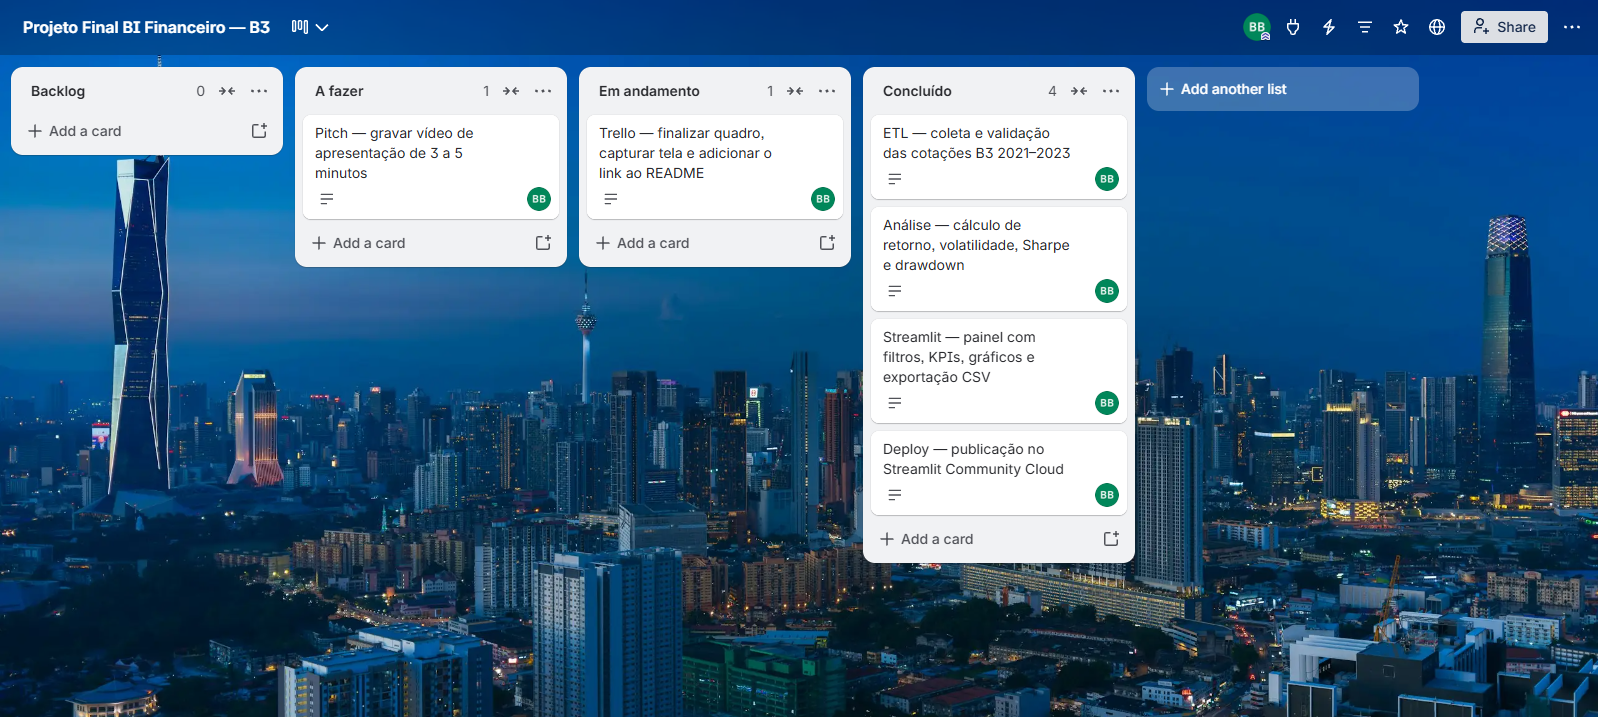
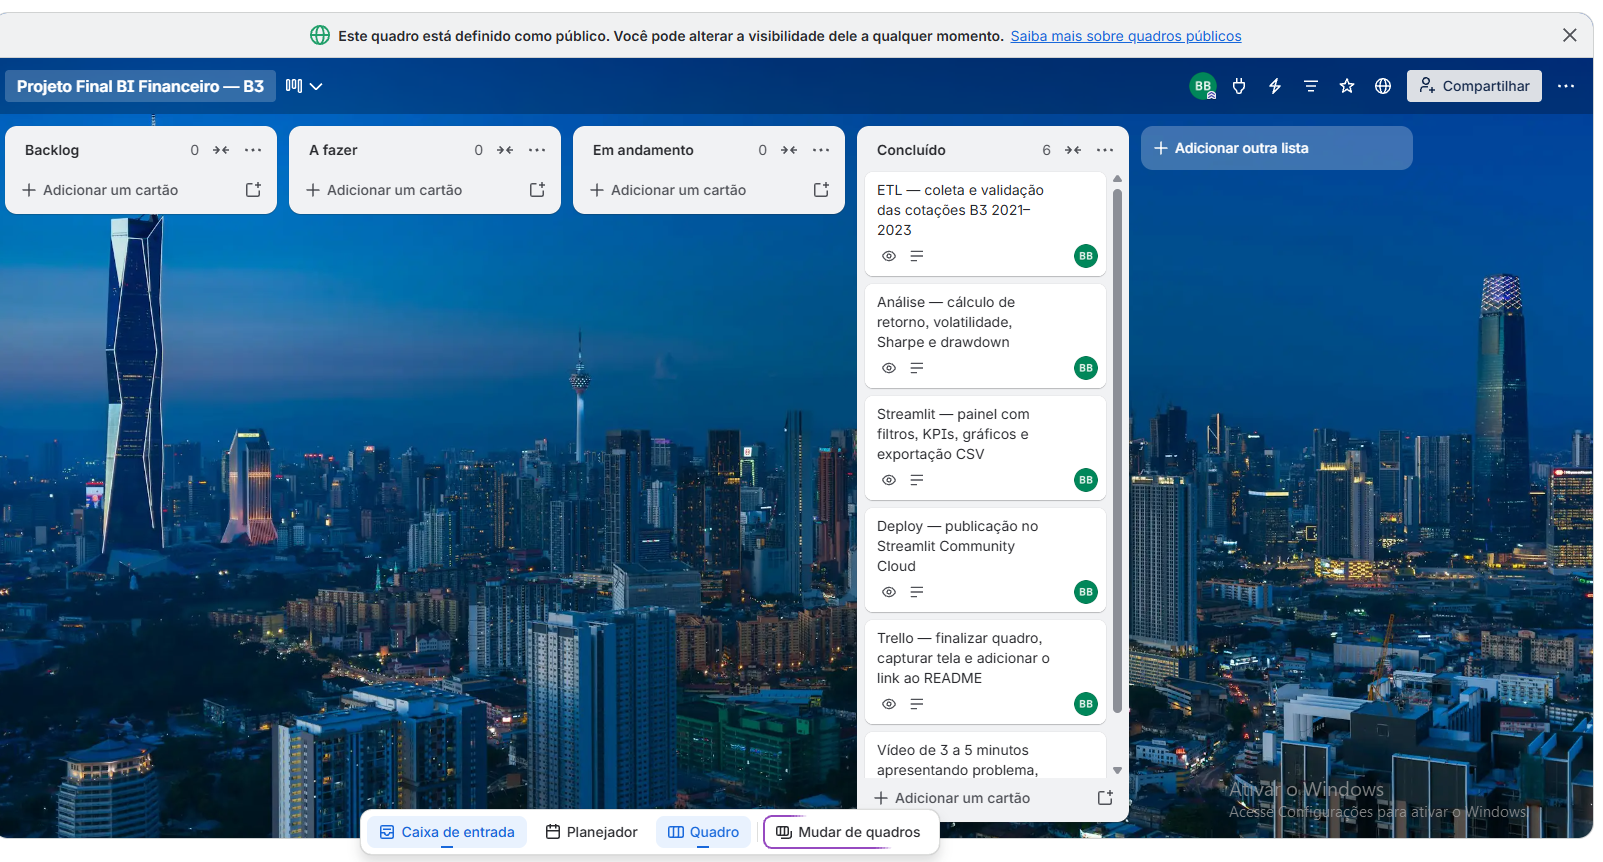
docs: atualiza README e captura do Trello

diff --git a/README.md b/README.md
@@ -257,3 +257,270 @@ projeto_final/
 - Plotly Express: https://plotly.com/python/plotly-express/
 
 - Pandas: https://pandas.pydata.org/docs/
+# Carteira em Foco — Análise de ações da B3
+
+## 1. Resumo executivo
+
+**Carteira em Foco** é um painel de Business Intelligence para acompanhar o desempenho, o risco e a evolução de 12 ações negociadas na B3 entre 2021 e 2023. O projeto transforma séries históricas de preços em indicadores e visualizações para apoiar uma leitura comparativa da carteira.
+
+A aplicação permite filtrar ativos, grupos setoriais e datas; comparar retornos normalizados e anuais; observar risco e drawdown; analisar correlações entre retornos diários; e exportar a base filtrada.
+
+> Projeto acadêmico individual da Linha 2 — Performance de Mercado de Ações e Séries Temporais.
+
+## 2. Contexto de negócio e pergunta orientadora
+
+Um investidor ou analista precisa comparar ativos com preços, riscos e trajetórias diferentes. Este painel investiga:
+
+**Como os 12 ativos selecionados se comportaram em retorno e risco entre 2021 e 2023, e quais diferenças aparecem entre os grupos setoriais definidos para esta análise?**
+
+- **Quais ativos tiveram maior e menor retorno acumulado?**  
+
+  PETR4 liderou o período, com retorno aproximado de **228,69%**. BBDC4 teve o menor resultado, cerca de **−6,93%**.
+
+- **Como variou o desempenho de cada ativo por ano?**  
+
+  Os retornos e as posições relativas variaram de um ano para outro. No acumulado do período, PETR4, PRIO3 e EMBR3 se destacaram, embora suas trajetórias anuais tenham sido diferentes.
+
+- **Quais grupos setoriais tiveram maior retorno médio anual?**  
+
+  A liderança mudou: Indústria apresentou a maior média anual em 2021 (**92,97%**); Energia liderou em 2022 (**41,79%**) e 2023 (**55,29%**). Na média dos três anos, Energia ficou com **38,08%**, seguida de Indústria, com **36,68%**. O retorno de cada grupo é a média simples dos ativos classificados nele.
+
+- **Quais ativos apresentaram maior associação linear em seus retornos diários?**  
+
+  BBDC4 e ITUB4 tiveram a maior correlação de Pearson nos retornos diários (**r = 0,77**) entre janeiro de 2021 e dezembro de 2023. Isso indica movimentos historicamente semelhantes, mas não comprova causalidade.
+
+- **Como se comportaram a volatilidade, o drawdown e as médias móveis?**  
+
+  A volatilidade anualizada média foi de **33,61%**. EGIE3 teve o drawdown máximo menos severo (**−17,65%**) e EMBR3, o mais acentuado (**−58,27%**). As médias móveis de 21 e 50 pregões ajudam a observar mudanças de tendência, mas não são previsões de preço.
+
+## 3. Fonte de dados, período e uso
+
+- **Fonte consultada:** histórico público de mercado disponibilizado pelo Yahoo Finance, obtido em Python pela biblioteca `yfinance`, com símbolos de ações brasileiras.
+
+- **Janela definida:** 01/01/2021 a 31/12/2023.
+
+- **Pregões encontrados na base:** 04/01/2021 a 28/12/2023, correspondentes aos pregões disponíveis no intervalo.
+
+- **Universo:** ABEV3, BBDC4, EGIE3, EMBR3, GGBR4, ITUB4, KLBN11, PETR4, PRIO3, RENT3, VALE3 e WEGE3.
+
+- **Volume da base:** 745 observações por ativo, totalizando 8.940 linhas na série consolidada.
+
+- **Arquivos principais:** `data/precos_acoes_2021_2023.csv` e `data/indicadores_diarios_2021_2023.csv`.
+
+A fonte utilizada é uma API pública de cotações, conforme permitido para a Linha 2 no enunciado. Ela não é apresentada como uma extração direta dos arquivos oficiais da B3. Consulte os termos aplicáveis da fonte antes de reutilizar ou redistribuir os dados.
+
+**Observação sobre o ticker EMBR3:** a identificação do ativo pode diferir na fonte de cotações em razão de mudanças de símbolo. No ETL, o símbolo `EMBJ3.SA` é padronizado como `EMBR3` para manter a identificação adotada no projeto.
+
+## 4. Pipeline de engenharia de dados
+
+O script `etl.py` realiza a extração e preparação da série histórica. O fluxo geral é:
+
+1. Consulta os dados históricos dos ativos por meio de `yfinance`.
+
+2. Padroniza os campos de preço, volume, data e ticker.
+
+3. Converte datas para tipo datetime e campos financeiros para tipos numéricos.
+
+4. Remove registros inválidos e duplicados por data e ativo.
+
+5. Ordena a base por ativo e data e verifica cobertura, nulos e duplicatas.
+
+6. Calcula indicadores derivados e grava os arquivos CSV na pasta `data/` usando caminhos relativos ao projeto.
+
+A aplicação carrega a tabela por conexão PostgreSQL, se configurada, e utiliza o CSV versionado como contingência. O carregamento é armazenado em cache por uma hora com `st.cache_data`.
+
+## 5. Dicionário de dados
+
+| Campo | Tipo | Significado e regra aplicada |
+|---|---|---|
+| `data` | datetime | Data do pregão. Convertida para data/hora durante a leitura. |
+| `abertura` | float | Preço de abertura do ativo no pregão, em reais. |
+| `maxima` | float | Maior preço registrado no pregão, em reais. |
+| `minima` | float | Menor preço registrado no pregão, em reais. |
+| `fechamento` | float | Preço de fechamento não ajustado, em reais. |
+| `fechamento_ajustado` | float | Fechamento ajustado conforme a série da fonte; usado nas análises de retorno. |
+| `volume_acoes` | int/float | Quantidade de ações negociadas no pregão, conforme a fonte. |
+| `ticker` | string | Código padronizado do ativo, por exemplo `PETR4`. |
+| `volume_financeiro_estimado` | float | Estimativa calculada por fechamento × volume de ações. Não equivale ao financeiro oficial do pregão. |
+| `retorno_diario` | float | Variação percentual diária calculada sobre o fechamento ajustado: preço ajustado atual ÷ preço ajustado anterior − 1. |
+| `base_100` | float | Série normalizada a partir do primeiro preço de referência; no painel, a visualização é rebaseada ao primeiro pregão do período filtrado. |
+| `sma_21` | float | Média móvel simples de 21 pregões do preço ajustado. |
+| `sma_50` | float | Média móvel simples de 50 pregões do preço ajustado. |
+| `pico_historico` | float | Maior fechamento ajustado acumulado até a data. |
+| `drawdown` | float | Variação em relação ao pico histórico: fechamento ajustado ÷ pico histórico − 1. Valores negativos representam quedas do pico. |
+
+O arquivo `data/resumo_ativos_2021_2023.csv` agrega os resultados por ativo e contém retorno acumulado, volatilidade anualizada, Sharpe com taxa livre de risco igual a zero, drawdown máximo, assimetria dos retornos diários e excesso de curtose.
+
+### Indicadores derivados na aplicação
+
+- **Retorno acumulado no período:** preço ajustado final ÷ preço ajustado inicial − 1.
+
+- **Volatilidade anualizada:** desvio-padrão dos retornos diários × √252.
+
+- **Sharpe empírico:** retorno médio diário ÷ desvio-padrão diário × √252, assumindo taxa livre de risco igual a zero.
+
+- **Retorno anual por ativo:** variação entre o primeiro e o último pregão disponível daquele ano no intervalo filtrado.
+
+- **Retorno setorial:** média simples dos retornos anuais dos ativos disponíveis em cada grupo do projeto.
+
+- **Correlação:** coeficiente de Pearson entre retornos diários, não entre níveis de preço.
+- **Assimetria:** coeficiente de skewness calculado sobre os retornos diários; valores negativos indicam maior extensão da cauda à esquerda e valores positivos, da cauda à direita.
+- **Excesso de curtose:** curtose calculada sobre os retornos diários menos 3; valores positivos indicam caudas mais pesadas que as de uma distribuição normal de referência.
+
+## 6. Grupos setoriais adotados
+
+Para facilitar a comparação no painel, os ativos foram organizados em cinco **grupos analíticos do projeto**:
+
+| Grupo | Ativos |
+|---|---|
+| Consumo e serviços | ABEV3, RENT3 |
+| Indústria | EMBR3, WEGE3 |
+| Commodities | GGBR4, KLBN11, VALE3 |
+| Energia | PETR4, PRIO3, EGIE3 |
+| Financeiro | BBDC4, ITUB4 |
+
+Esses grupos são uma simplificação para a visualização e não devem ser interpretados como uma classificação oficial da B3. Os grupos também têm quantidades diferentes de ativos; por isso, o retorno do grupo é uma média simples e não uma carteira setorial ponderada por valor de mercado.
+
+## 7. Tecnologias
+
+| Tecnologia | Uso no projeto |
+|---|---|
+| Python | Linguagem do pipeline e da aplicação. |
+| Pandas | Tratamento, organização e cálculo sobre séries temporais. |
+| yfinance | Obtenção do histórico de cotações para os símbolos selecionados. |
+| Streamlit | Aplicação interativa, filtros, KPIs, abas e exportação. |
+| Plotly Express | Gráficos interativos. |
+| PostgreSQL / SQLAlchemy | Conexão opcional à base na nuvem; a aplicação prevê fallback para CSV. |
+| Git e GitHub | Versionamento e organização do desenvolvimento por branches e pull requests. |
+
+## 8. Resultados observados
+
+Na base consolidada de 2021–2023, a média simples dos retornos acumulados dos 12 ativos apresentou os seguintes resultados:
+
+- **Retorno médio acumulado dos ativos:** 58,41%.
+
+- **Maior retorno acumulado:** PETR4, aproximadamente 228,69%.
+
+- **Menor retorno acumulado:** BBDC4, aproximadamente −6,93%.
+
+- **Volatilidade anualizada média:** 33,61%.
+
+- **Maior Sharpe empírico:** PETR4, aproximadamente 1,22, com taxa livre de risco igual a zero.
+
+- **Menor drawdown máximo em magnitude entre os ativos:** EGIE3, aproximadamente −17,65%; EMBR3 teve o mais acentuado, aproximadamente −58,27%.
+
+- **Estatísticas da distribuição dos retornos:** ITUB4 apresentou o maior excesso de curtose (13,49) e a assimetria mais negativa (−1,115) entre os ativos da amostra.
+
+Os resultados são descritivos e dependem do intervalo, da fonte e das regras de cálculo adotadas. O excesso de curtose e a assimetria descrevem a distribuição observada nesta amostra; não são previsões de perdas futuras. O Sharpe usa taxa livre de risco igual a zero. Não se infere causalidade a partir de correlações ou de desempenho passado.
+
+> Os resultados apresentados correspondem à base histórica versionada neste repositório e ao período de 2021 a 2023.
+
+## 9. Limitações da análise
+
+- A janela cobre três anos e não representa todos os ciclos de mercado.
+
+- A fonte é uma base pública consolidada de cotações; diferenças de cobertura, ajustes e disponibilidade podem ocorrer.
+
+- O volume financeiro foi estimado por fechamento × quantidade de ações e não representa o valor oficial negociado.
+
+- O Sharpe considera taxa livre de risco igual a zero, simplificação que pode alterar a comparação de risco-retorno.
+
+- A média simples dá o mesmo peso a cada ativo e não reproduz necessariamente a composição de uma carteira real.
+
+- Os grupos setoriais são simplificações do projeto e contêm quantidades diferentes de ativos.
+
+- Correlação linear mede associação histórica entre retornos e não comprova causalidade nem garante comportamento futuro.
+
+- O retorno anual apresentado usa primeiro e último pregão disponível dentro do ano e do período selecionado; filtros de datas podem produzir anos parciais.
+
+## 10. Aplicação prática
+
+O painel pode apoiar uma conversa inicial entre analista, gestor e investidor sobre desempenho relativo, risco histórico, perdas máximas e semelhança entre os movimentos dos ativos. Ele serve como instrumento exploratório e educacional, não como recomendação de investimento individual.
+
+## 11. Demonstração do Data App
+
+- **Aplicação em produção:** [Carteira em Foco](https://carteira-em-foco-b3.streamlit.app/)
+
+![Captura do painel Carteira em Foco](docs/captura-app-readme.png)
+
+### Navegação
+
+- **Visão geral:** Base 100 e relação risco-retorno.
+
+- **Retorno anual e setores:** retornos por ativo e média por grupo setorial.
+
+- **Risco e correlação:** correlação de Pearson, distribuição dos retornos e drawdown.
+
+- **Tendência:** preço ajustado e médias móveis simples de 21 e 50 pregões.
+
+- **Dados:** tabela filtrada e exportação CSV.
+
+Filtros por grupo setorial, ativos e período ficam na barra lateral. O botão **Restaurar filtros** retorna à carteira completa.
+
+## 12. Como executar localmente
+
+Pré-requisitos: Python instalado e Git.
+
+```powershell
+git clone https://github.com/brunobriani-hub/projeto_final.git
+cd projeto_final
+python -m venv .venv
+.\.venv\Scripts\Activate.ps1
+python -m pip install -r requirements.txt
+python -m streamlit run app.py
+```
+
+A aplicação espera encontrar `data/indicadores_diarios_2021_2023.csv` relativamente à raiz do projeto. Sem credenciais de PostgreSQL configuradas, utiliza o CSV de contingência.
+
+Para habilitar PostgreSQL, configure as credenciais localmente em `.streamlit/secrets.toml` e no campo **Secrets** do Streamlit Community Cloud. Não publique credenciais no GitHub. O arquivo local de segredos deve permanecer no `.gitignore`.
+
+## 13. Estrutura do repositório
+
+```text
+projeto_final/
+├── .streamlit/
+│   ├── config.toml
+│   └── secrets.toml          # local, não versionar
+├── data/
+│   ├── indicadores_diarios_2021_2023.csv
+│   ├── precos_acoes_2021_2023.csv
+│   └── resumo_ativos_2021_2023.csv
+├── docs/
+│   ├── trello_quadro.png
+│   └── captura-app-readme.png
+├── app.py
+├── etl.py
+├── requirements.txt
+├── .gitignore
+└── README.md
+```
+
+## 14. Gestão ágil e links do projeto
+
+- **Quadro Kanban público no Trello:** [Projeto Final BI Financeiro — B3](https://trello.com/b/FLVBrrQi/projeto-final-bi-financeiro-b3)
+
+- **Captura do quadro:** `docs/trello_quadro.png`
+
+![Quadro Kanban do projeto](docs/trello_quadro.png)
+
+- **Vídeo de apresentação (3–5 minutos):** [Assistir no Google Drive](https://drive.google.com/file/d/1HYzlxd1dXIMGwJfYi5rq1UfwyAIcoXXf/view?usp=sharing)
+
+- **Repositório GitHub:** [projeto_final](https://github.com/brunobriani-hub/projeto_final)
+
+## 15. Autoria e referências
+
+**Autor:** Bruno Briani de Paula  
+
+**LinkedIn:** [Bruno Briani](https://www.linkedin.com/in/bruno-briani-380b6b2a9/)
+
+### Referências técnicas e de dados
+
+- Yahoo Finance: https://finance.yahoo.com/
+
+- Biblioteca yfinance: https://github.com/ranaroussi/yfinance
+
+- Documentação Streamlit: https://docs.streamlit.io/
+
+- Plotly Express: https://plotly.com/python/plotly-express/
+
+- Pandas: https://pandas.pydata.org/docs/
